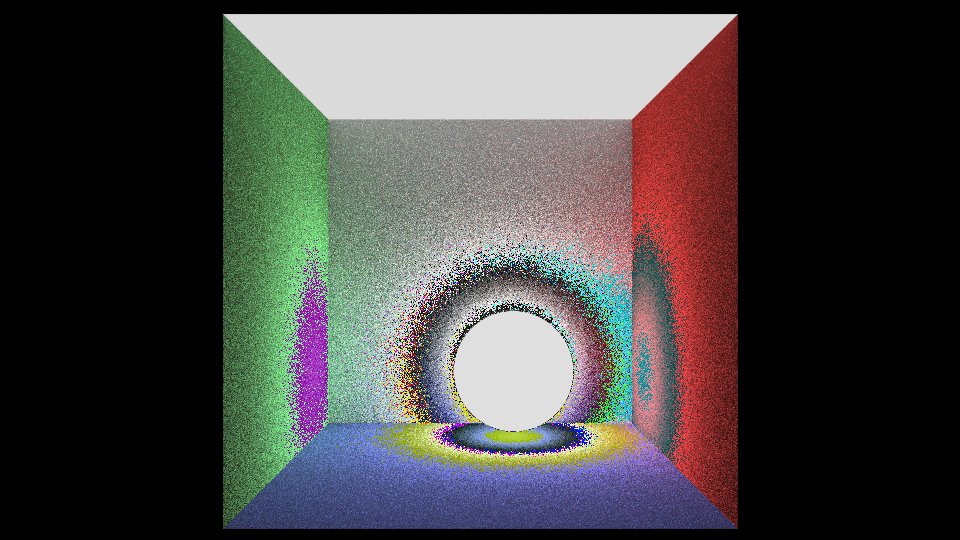
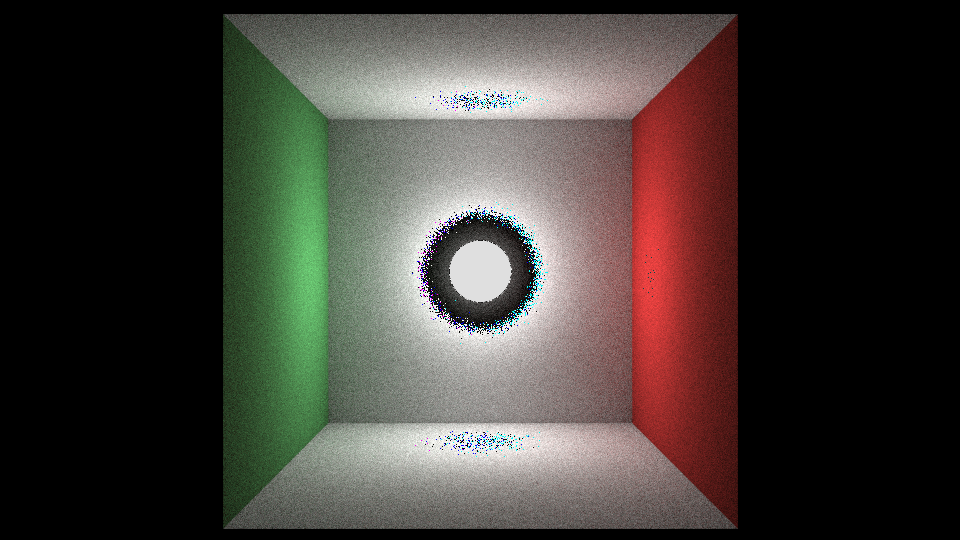
proper emission and cornell box

diff --git a/src/scenes.rs b/src/scenes.rs
@@ -10,9 +10,10 @@ pub fn cornell_box() -> HitableList {
     let mut world = HitableList::new();
 
     let red = LambertianMat::new(Box::new(ConstantTexture::new(Vec3::new(0.65, 0.05, 0.05))));
-    let white1 = LambertianMat::new(Box::new(ConstantTexture::new(Vec3::new(0.2, 0.23, 0.73))));
-    let white2 = ConstantMat::new(Box::new(ConstantTexture::new(Vec3::new(0.73, 0.73, 0.73))));
+    let white1 = LambertianMat::new(Box::new(ConstantTexture::new(Vec3::new(0.73, 0.73, 0.73))));
+    let white2 = LambertianMat::new(Box::new(ConstantTexture::new(Vec3::new(0.73, 0.73, 0.73))));
     let white3 = LambertianMat::new(Box::new(ConstantTexture::new(Vec3::new(0.73, 0.73, 0.73))));
+    //let white3 = MetalMat::new(Vec3::new(0.73, 0.73, 0.73), 0.5);
     let green = LambertianMat::new(Box::new(ConstantTexture::new(Vec3::new(0.12, 0.45, 0.15))));
 
     let light = ConstantMat::new(Box::new(ConstantTexture::new(Vec3::new(15., 15., 15.))));
@@ -20,15 +21,13 @@ pub fn cornell_box() -> HitableList {
     world.list_mut().push(Box::new(FlipNormals::new(Box::new(YZRect::new(0., 555., 0., 555., 555., Box::new(green))))));
     world.list_mut().push(Box::new(YZRect::new(0., 555., 0., 555., 0., Box::new(red))));
 
-    //world.list_mut().push(Box::new(XZRect::new(213., 343., 227., 332., 550., Box::new(light))));
+    world.list_mut().push(Box::new(XZRect::new(213., 343., 227., 332., 554., Box::new(light))));
 
     world.list_mut().push(Box::new(
             XZRect::new(0., 555., 0., 555., 0., Box::new(white1))));
-    //world.list_mut().push(Box::new(
-            //XZRect::new(0., 555., 0., 555., -10., Box::new(white2))));
     world.list_mut().push(Box::new(FlipNormals::new(Box::new(XZRect::new(0., 555., 0., 555., 555., Box::new(white2))))));
-    //
-    world.list_mut().push(Box::new(Sphere::new(Vec3::new(222., 111., 444.), 100., Box::new(light))));
+
+    //world.list_mut().push(Box::new(Sphere::new(Vec3::new(277.5, 277.5, 400.), 50., Box::new(light))));
 
     world.list_mut().push(Box::new(FlipNormals::new(Box::new(XYRect::new(0., 555., 0., 555., 555., Box::new(white3))))));
     //world.list_mut().push(Box::new(FlipNormals::new(Box::new(XYRect::new(111., 222., 111., 222., 222., Box::new(white2))))));

diff --git a/src/render.rs b/src/render.rs
@@ -25,22 +25,19 @@ fn sky_color(r: &Ray) -> Vec3 {
 
 pub fn color(r: &Ray, world: &dyn Hitable, depth: usize, rand: &mut LcRng) -> Vec3 {
     if let Some(hit) = world.hit(r, 0.001, 2e9) {
-        if depth < 4 {
+        if depth < 10 {
+            let emit = hit.material.emit(hit.uv, &hit.point);
             if let Some(result) = hit.material.scatter(r, &hit, rand) {
-                if result.scattered.direction().mag_sq() < 0.01 {
-                    result.attenuation
-                } else {
-                    result.attenuation * color(&result.scattered, world, depth + 1, rand)
-                }
+                emit + result.attenuation * color(&result.scattered, world, depth + 1, rand)
             } else {
-                Vec3::zero()
+                emit
             }
         } else {
             Vec3::zero()
         }
     } else {
         //sky_color(r)
-        Vec3::zero()
+        0.01 * Vec3::one()
     }
 }
 

diff --git a/src/material.rs b/src/material.rs
@@ -7,6 +7,10 @@ use ultraviolet::Vec3;
 
 pub trait Material {
     fn scatter(&self, r_in: &Ray, hit: &RaycastHit, rand: &mut LcRng) -> Option<ScatterResult>;
+
+    fn emit(&self, uv: (f32, f32), point: &Vec3) -> Vec3 {
+        Vec3::zero()
+    }
 }
 
 pub struct ScatterResult {
@@ -133,11 +137,10 @@ impl ConstantMat {
 
 impl Material for ConstantMat {
     fn scatter(&self, _r_in: &Ray, hit: &RaycastHit, _rand: &mut LcRng) -> Option<ScatterResult> {
-        // TODO: Use proper UV Mapping
-        let attenuation = self.albedo.sample(hit.uv, &hit.point);
-        Some(ScatterResult {
-            scattered: Ray::new(hit.point, Vec3::zero()),
-            attenuation,
-        })
+        None
+    }
+
+    fn emit(&self, uv: (f32, f32), point: &Vec3) -> Vec3 {
+        self.albedo.sample(uv, point)
     }
 }

diff --git a/src/main.rs b/src/main.rs
@@ -27,8 +27,8 @@ mod scenes;
 mod texture;
 mod util;
 
-const WIDTH: usize = 960;
-const HEIGHT: usize = 540;
+const WIDTH: usize = 480;
+const HEIGHT: usize = 270;
 
 const SAMPLES: usize = 100;
 
